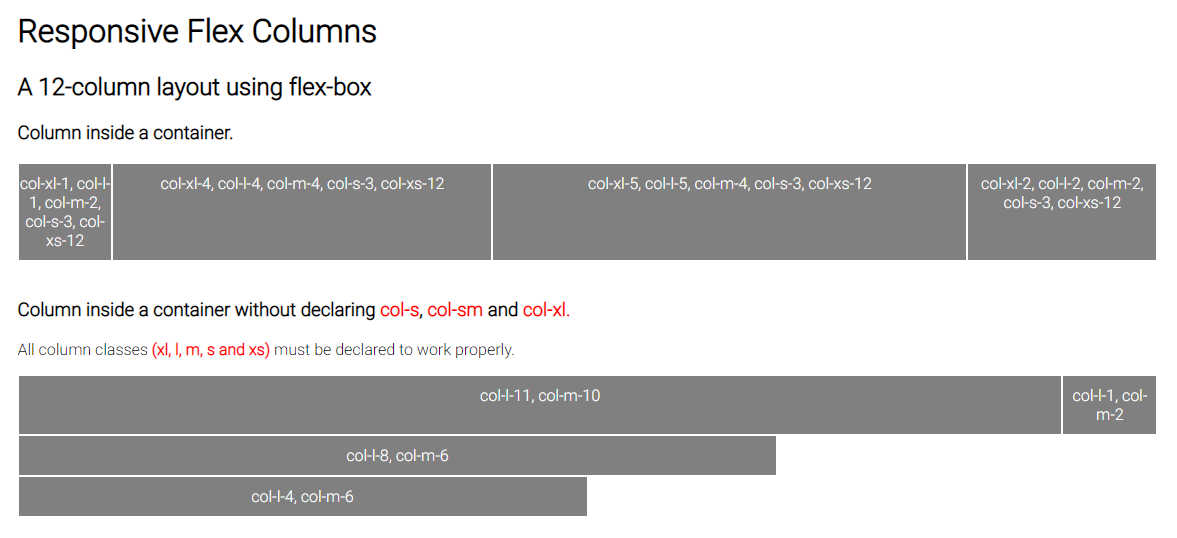
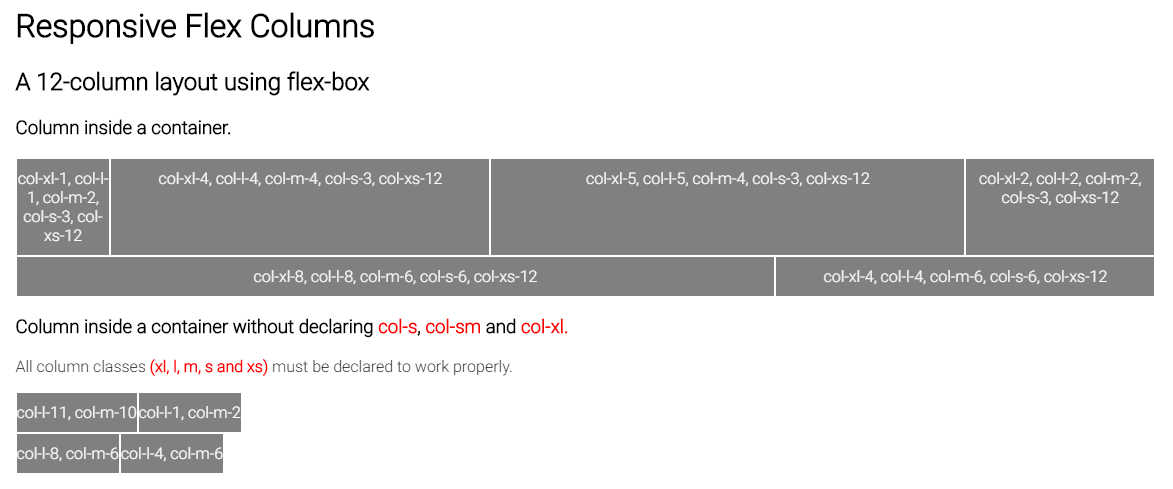
Update file

diff --git a/src/index.html b/src/index.html
@@ -9,65 +9,10 @@
   <link rel="stylesheet" href="grid.css">
 </head>
 <body>
-  <!-- <div class="container">
-    <div class="row">
-      <div class="col-one col-styling">col-one</div>
-    </div>
-    <br>
-    <div class="row">
-      <div class="col-half col-styling">col-half (1/2)</div>
-      <div class="col-half col-styling">col-half (1/2)</div>
-    </div>
-    <br>
-    <div class="row">
-      <div class="col-one-third col-styling">col-one-third (1/3)</div>
-      <div class="col-one-third col-styling">col-one-third (1/3)</div>
-      <div class="col-one-third col-styling">col-one-third (1/3)</div>
-    </div>
-    <br>
-    <div class="row">
-      <div class="col-one-forth col-styling">col-one-forth (1/4)</div>
-      <div class="col-one-forth col-styling">col-one-forth (1/4)</div>
-      <div class="col-one-forth col-styling">col-one-forth (1/4)</div>
-      <div class="col-one-forth col-styling">col-one-forth (1/4)</div>
-    </div>
-    <br>
-    <div class="row">
-      <div class="col-one-fifth col-styling">col-one-fifth (1/5)</div>
-      <div class="col-one-fifth col-styling">col-one-fifth (1/5)</div>
-      <div class="col-one-fifth col-styling">col-one-fifth (1/5)</div>
-      <div class="col-one-fifth col-styling">col-one-fifth (1/5)</div>
-      <div class="col-one-fifth col-styling">col-one-fifth (1/5)</div>
-    </div>
-    <br>
-    <div class="row">
-      <div class="col-one-sixth col-styling">col-one-sixth (1/6)</div>
-      <div class="col-one-sixth col-styling">col-one-sixth (1/6)</div>
-      <div class="col-one-sixth col-styling">col-one-sixth (1/6)</div>
-      <div class="col-one-sixth col-styling">col-one-sixth (1/6)</div>
-      <div class="col-one-sixth col-styling">col-one-sixth (1/6)</div>
-      <div class="col-one-sixth col-styling">col-one-sixth (1/6)</div>
-    </div>
-  </div>
 
-  <div class="container">
-    <h2>Column Combination</h2>
-    <div class="row">
-      <div class="col-half col-styling">col-half (1/2)</div>
-      <div class="col-one-forth col-styling">col-one-forth (1/4)</div>
-      <div class="col-one-forth col-styling">col-one-forth (1/4)</div>
-    </div>
-    <div class="row">
-        <div class="col-one-sixth col-styling">col-one-sixth (1/6)</div>
-        <div class="col-one-third col-styling">col-one-third (1/3)</div>
-        <div class="col-half col-styling">col-half (1/2)</div>
-      </div>
-    </div> -->
-
-  <div class="container">
+  <div class="container" id="with">
     <h1>Responsive Flex Columns</h1>
     <h2>A 12-column layout using flex-box</h2>
-
     <h3>Column inside a container.</h2>
     <div class="row">
       <div class="col-xl-1 col-l-1 col-m-2 col-s-3 col-xs-12 col-styling">
@@ -75,11 +20,19 @@
       <div class="col-xl-4 col-l-4 col-m-4 col-s-3 col-xs-12 col-styling">
         col-xl-4, col-l-4, col-m-4, col-s-3, col-xs-12</div>
       <div class="col-xl-5 col-l-5 col-m-4 col-s-3 col-xs-12 col-styling">
-        col-xl-5, col-l-5, col-m-4, col-s-3, col-xs-12
-      </div>
+        col-xl-5, col-l-5, col-m-4, col-s-3, col-xs-12</div>
       <div class="col-xl-2 col-l-2 col-m-2 col-s-3 col-xs-12 col-styling">
         col-xl-2, col-l-2, col-m-2, col-s-3, col-xs-12</div>
-    </div><br>
+    </div>
+    <div class="row">
+      <div class="col-xl-8 col-l-8 col-m-6 col-s-6 col-xs-12 col-styling">
+        col-xl-8, col-l-8, col-m-6, col-s-6, col-xs-12</div>
+      <div class="col-xl-4 col-l-4 col-m-6 col-s-6 col-xs-12 col-styling">
+        col-xl-4, col-l-4, col-m-6, col-s-6, col-xs-12</div>
+    </div>
+  </div>
+
+  <div class="container">
     <h3>Column inside a container without declaring <span style="color: red">col-s</span>, <span style="color: red">col-sm</span> and <span style="color: red">col-xl<span style="color: red"></span>.</h2>
     <p>All column classes <span style="color: red; font-weight: bold">(xl, l, m, s and xs)</span> must be declared to work properly.</p>
     <div class="row">

diff --git a/src/scss/grid.scss b/src/scss/grid.scss
@@ -57,24 +57,24 @@ body {
 }
 
 /* Extra small devices */
-@media (max-width: 543px) {
+@media (max-width: 543px) and (max-width: 543px) {
   .col-xs { @include col-shared(); }
 }
 
 /* Small devices */
-@media (min-width: 544px) {
+@media (min-width: 544px) and (max-width: 767px) {
   .container { max-width: 540px; }
   .col-s { @include col-shared(); }
 }
 
 /* Medium devices: navbar toggle breakpoint */
-@media (min-width: 768px) {
+@media (min-width: 768px) and (max-width: 991px)  {
   .container { max-width: 720px; }
   .col-m { @include col-shared(); }
 }
 
 /* Large devices */
-@media (min-width: 992px) {
+@media (min-width: 992px) and (max-width: 1199px) {
   .container { max-width: 960px; }
   .col-l { @include col-shared(); }
 }
